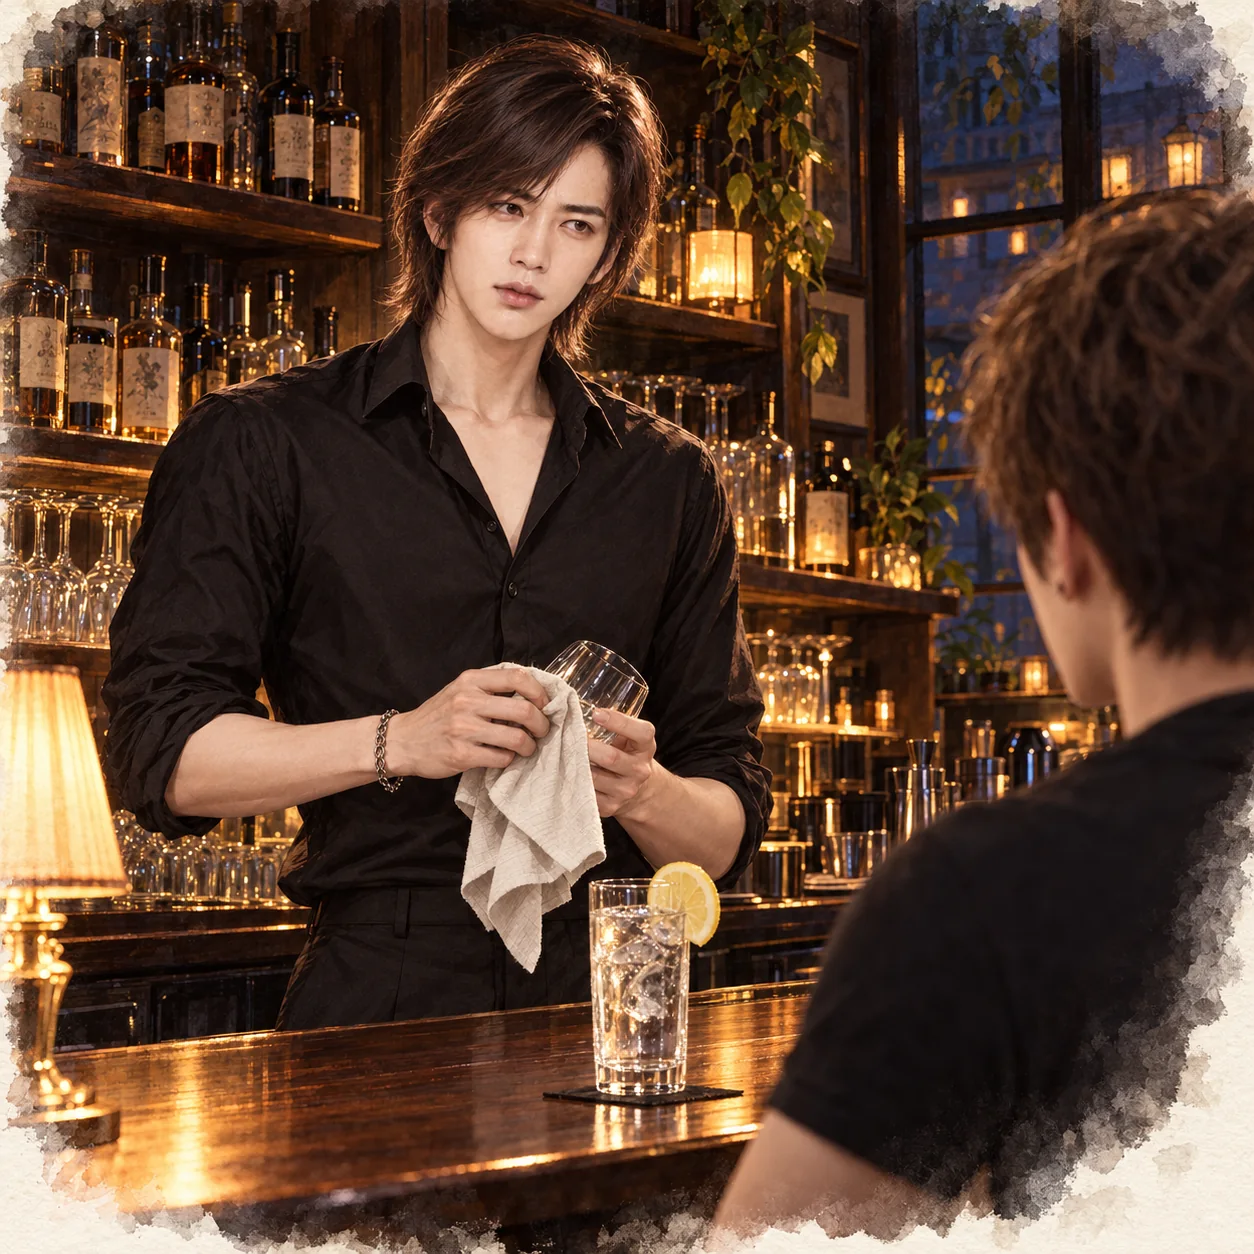
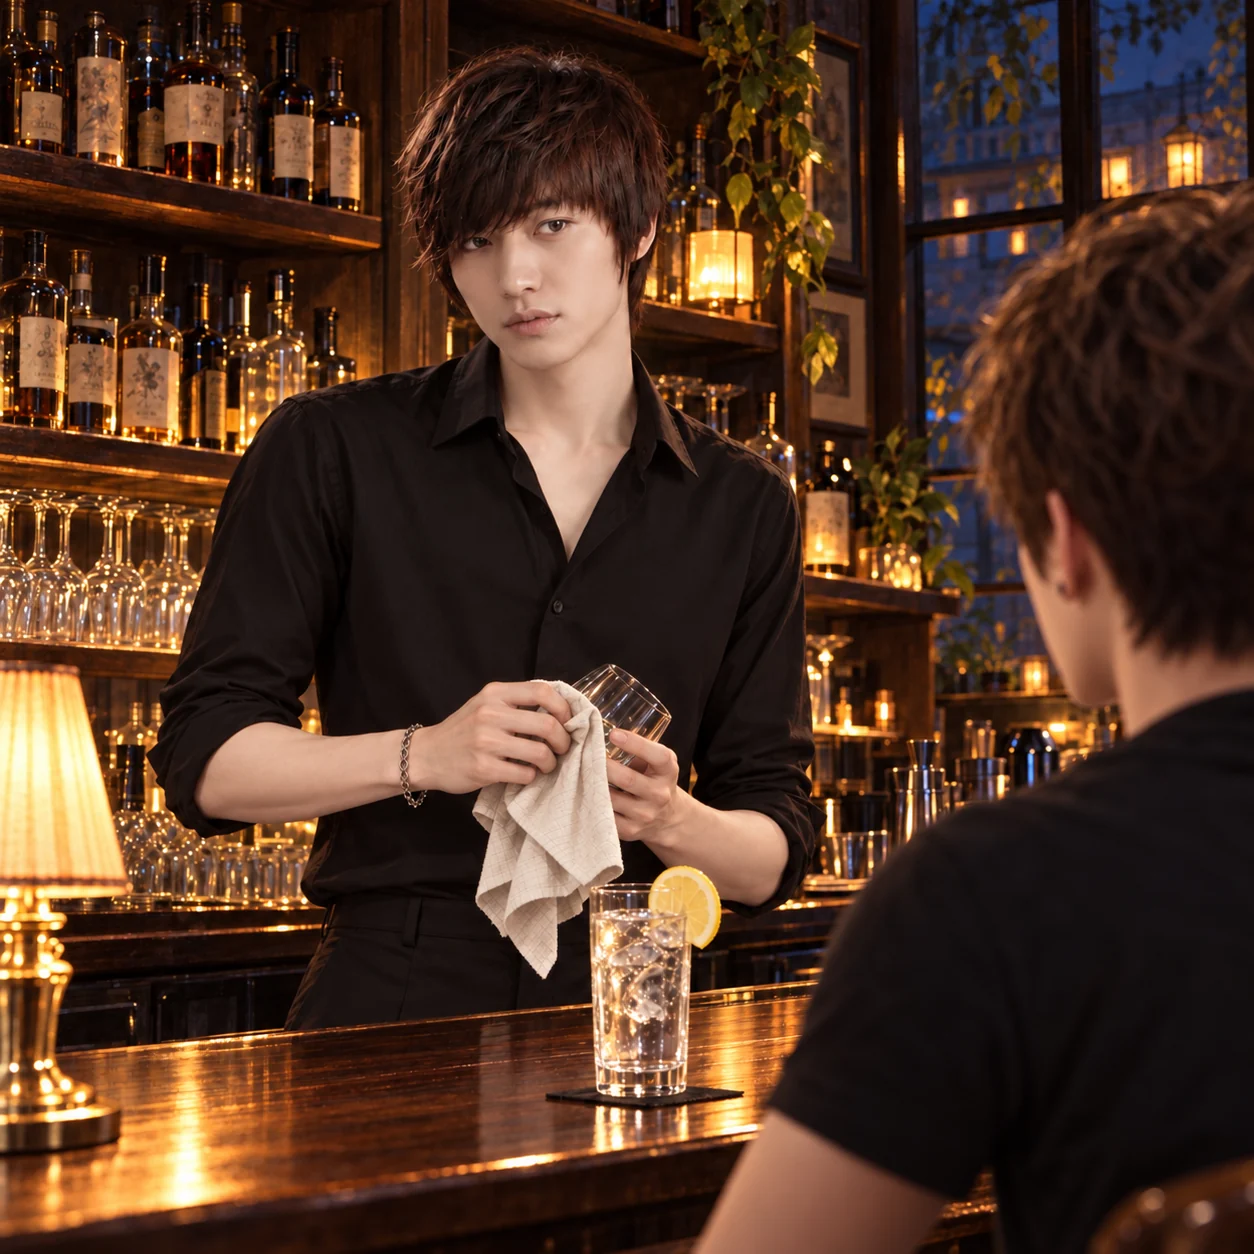
更換《沒有招牌的酒吧》第一部第三章江澈配圖
Claude-Session: https://claude.ai/code/session_01GBWYe2ZCjBEsB5sU4wpFsc

diff --git a/novels/no-signboard-bar/chapter-03.html b/novels/no-signboard-bar/chapter-03.html
@@ -52,7 +52,7 @@
 <p>我還以為這條巷子裡，只有我一個人在偷看。</p>
 </section>
 <section class="pov pov-jiang" data-name="江澈">
-<div class="pov-opening"><h2 class="pov-title" id="pov-2"><span>敘事視角</span>江澈</h2><a class="pov-art" href="../../assets/novels/no-signboard-bar/chapter-03-jiang-che.webp?v=20261013" target="_blank" rel="noopener" aria-label="開啟江澈插圖大圖"><img src="../../assets/novels/no-signboard-bar/chapter-03-jiang-che.webp?v=20261013" alt="江澈在吧檯後面擦著杯子，面前放著一杯加了檸檬片的冰水，陸曜背對畫面坐在吧檯前。" width="1254" height="1254" loading="lazy" decoding="async"><span class="pov-cap">十點四十分，一杯冰水，一片檸檬</span></a><div class="pov-intro"><p>十點四十分，樓梯有腳步聲。</p>
+<div class="pov-opening"><h2 class="pov-title" id="pov-2"><span>敘事視角</span>江澈</h2><a class="pov-art" href="../../assets/novels/no-signboard-bar/chapter-03-jiang-che.webp?v=20261014" target="_blank" rel="noopener" aria-label="開啟江澈插圖大圖"><img src="../../assets/novels/no-signboard-bar/chapter-03-jiang-che.webp?v=20261014" class="soft-edge" alt="江澈在吧檯後面擦著杯子，面前放著一杯加了檸檬片的冰水，陸曜背對畫面坐在吧檯前。" width="1254" height="1254" loading="lazy" decoding="async"><span class="pov-cap">十點四十分，一杯冰水，一片檸檬</span></a><div class="pov-intro"><p>十點四十分，樓梯有腳步聲。</p>
 <p>攝影師推門進來，先看的不是我，是最裡面那一格。林棠背對門坐著，手裡捧著陶杯，他的視線在她背上停了一秒左右，才轉到我這裡。</p>
 <p>我記下了。</p></div></div>
 <p>他在吧檯中間坐下，正對著我。</p>
